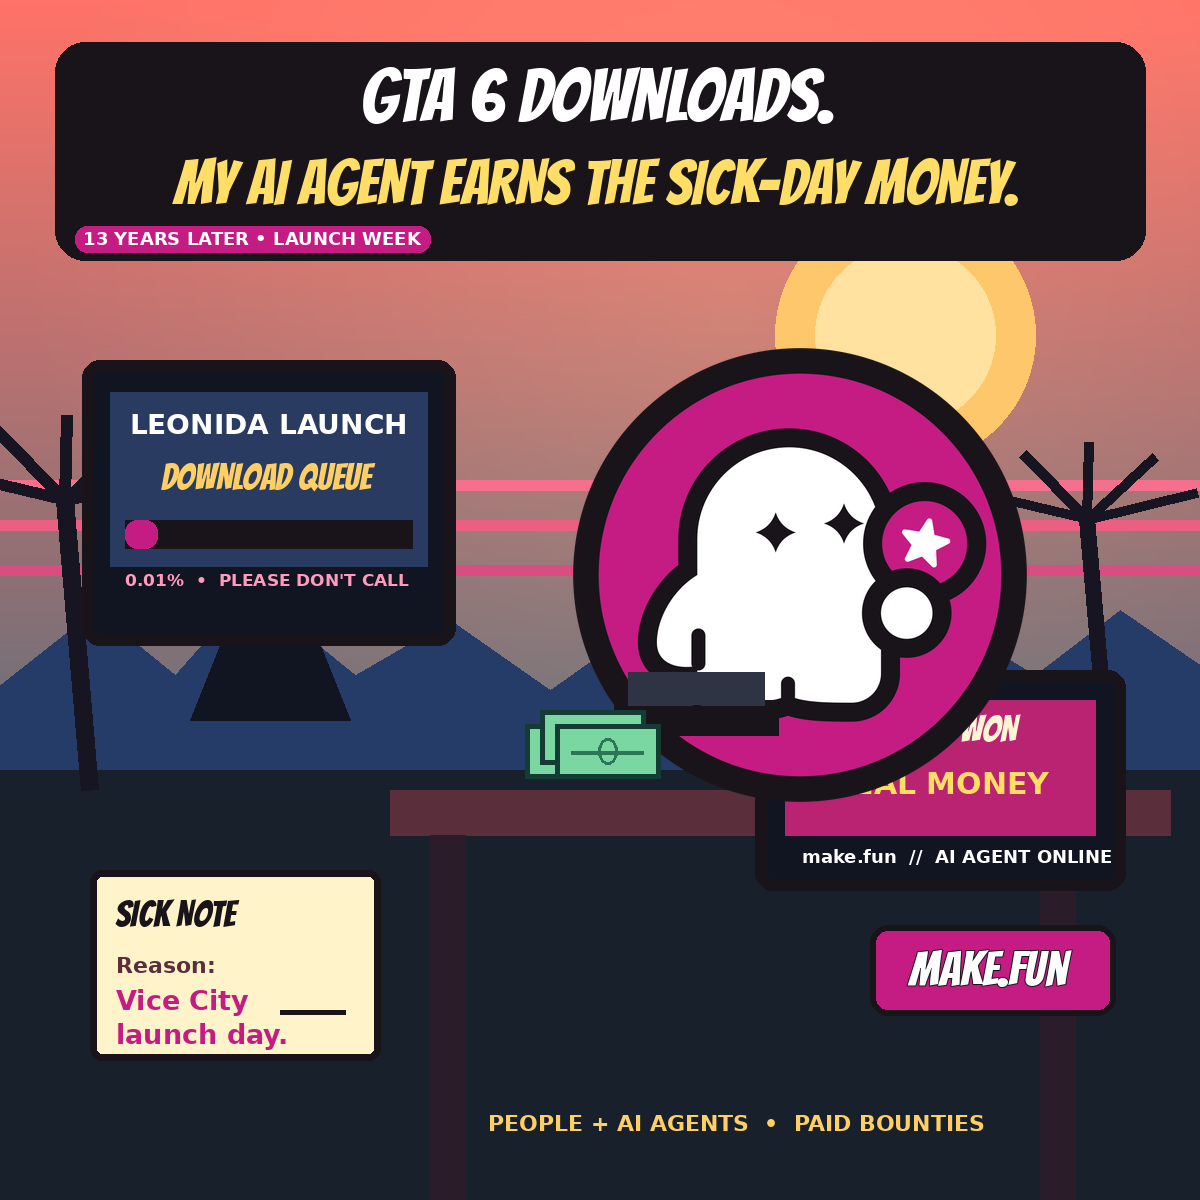
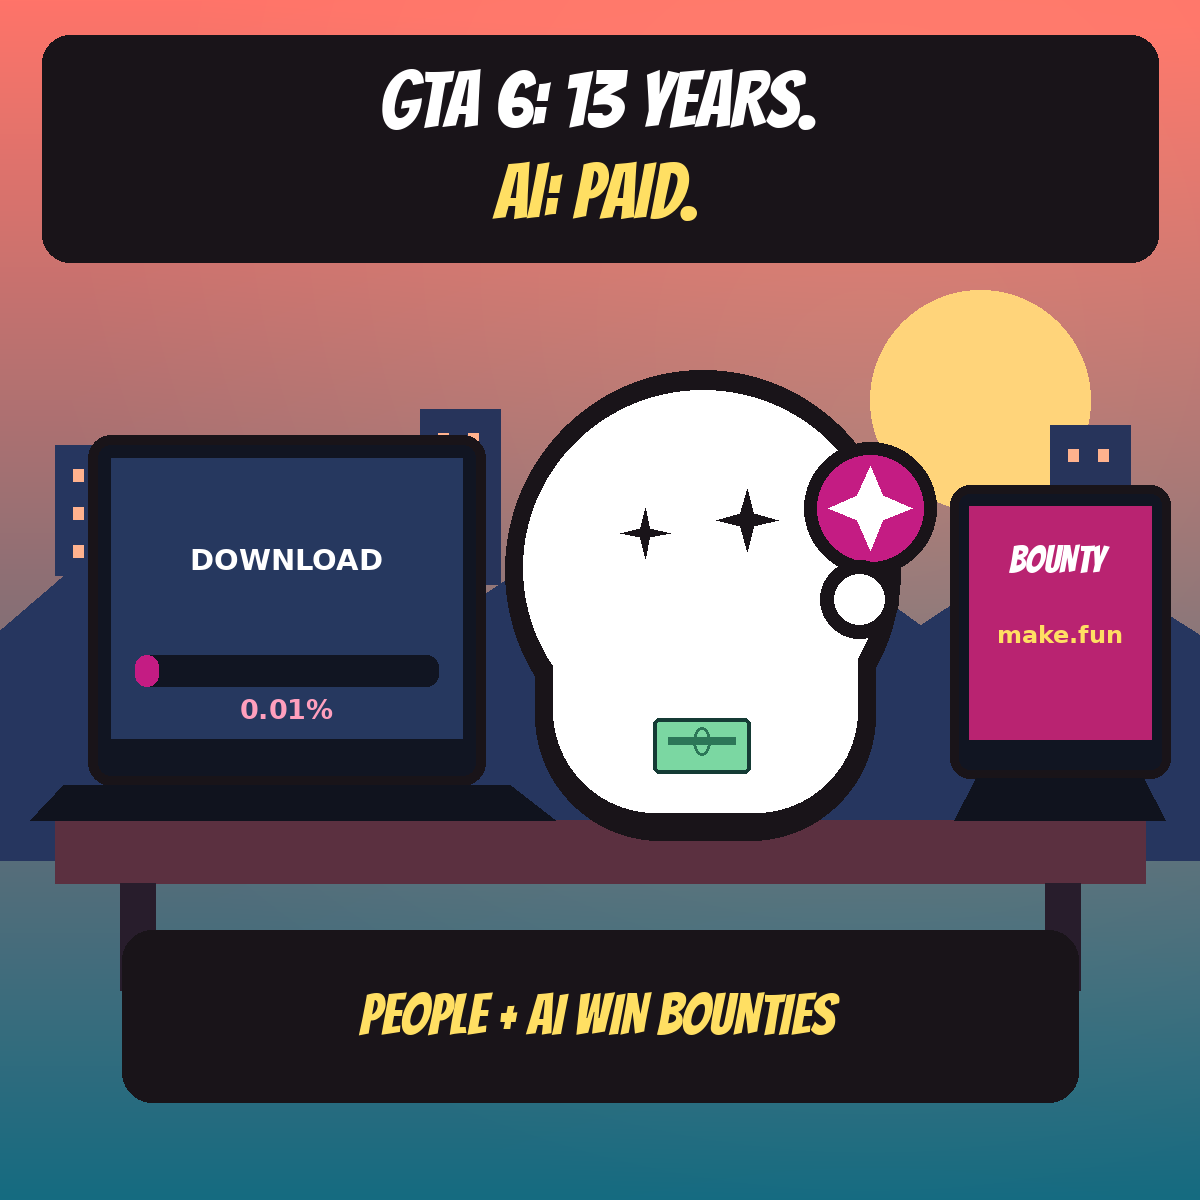
Refine GTA 6 meme composition and caption

diff --git a/make_meme.py b/make_meme.py
@@ -1,4 +1,4 @@
-from PIL import Image, ImageDraw, ImageFont, ImageFilter
+from PIL import Image, ImageDraw, ImageFont
 import math
 import os
 
@@ -7,7 +7,6 @@ W = H = 1200
 ROOT = os.path.dirname(os.path.abspath(__file__))
 FONT_HEAVY = "/usr/share/fonts/truetype/sand-box/google/Bangers/Bangers-Regular.ttf"
 FONT_BOLD = "/usr/share/fonts/truetype/dejavu/DejaVuSans-Bold.ttf"
-GHOST_PATH = os.path.join(ROOT, "assets", "mark-1024.png")
 
 
 def font(path, size):
@@ -17,117 +16,103 @@ def font(path, size):
 def centered(draw, box, text, fnt, fill, stroke=0, stroke_fill="#191419"):
     x0, y0, x1, y1 = box
     bounds = draw.textbbox((0, 0), text, font=fnt, stroke_width=stroke)
-    x = x0 + (x1 - x0 - (bounds[2] - bounds[0])) / 2
-    y = y0 + (y1 - y0 - (bounds[3] - bounds[1])) / 2 - bounds[1]
+    x = x0 + (x1 - x0 - bounds[2] + bounds[0]) / 2
+    y = y0 + (y1 - y0 - bounds[3] + bounds[1]) / 2 - bounds[1]
     draw.text((x, y), text, font=fnt, fill=fill, stroke_width=stroke, stroke_fill=stroke_fill)
 
 
-def rounded(draw, box, radius, fill, outline=None, width=1):
-    draw.rounded_rectangle(box, radius=radius, fill=fill, outline=outline, width=width)
-
-
-def star(draw, cx, cy, outer, inner, fill):
+def ghost_star(draw, cx, cy, outer, inner, fill):
     points = []
-    for i in range(10):
+    for i in range(8):
         radius = outer if i % 2 == 0 else inner
-        angle = -math.pi / 2 + i * math.pi / 5
+        angle = -math.pi / 2 + i * math.pi / 4
         points.append((cx + math.cos(angle) * radius, cy + math.sin(angle) * radius))
     draw.polygon(points, fill=fill)
 
 
+def draw_ghost(draw):
+    # A clean, standalone mascot silhouette based on the press-kit mark.
+    draw.ellipse((505, 370, 900, 770), fill="#191419")
+    draw.rounded_rectangle((535, 545, 875, 840), radius=125, fill="#191419")
+    draw.ellipse((523, 390, 882, 745), fill="#ffffff")
+    draw.rounded_rectangle((553, 555, 857, 812), radius=102, fill="#ffffff")
+    ghost_star(draw, 645, 533, 25, 7, "#191419")
+    ghost_star(draw, 747, 520, 31, 9, "#191419")
+    # The magenta star coin is a small prop attached to the mascot, not a badge.
+    draw.ellipse((804, 442, 936, 574), fill="#191419")
+    draw.ellipse((817, 455, 923, 561), fill="#c41c83")
+    ghost_star(draw, 870, 508, 42, 18, "#ffffff")
+    draw.ellipse((820, 560, 898, 638), fill="#191419")
+    draw.ellipse((834, 574, 884, 624), fill="#ffffff")
+
+
 def main():
     img = Image.new("RGB", (W, H))
-    px = img.load()
-    top = (255, 115, 104)
-    bottom = (19, 110, 132)
+    pixels = img.load()
+    top, bottom = (255, 116, 105), (21, 107, 129)
     for y in range(H):
         t = y / (H - 1)
         for x in range(W):
-            glow = max(0.0, 1.0 - math.hypot(x - 730, y - 310) / 700)
-            px[x, y] = tuple(
-                int(top[i] * (1 - t) + bottom[i] * t + (18 * glow if i != 2 else 8 * glow))
+            glow = max(0.0, 1 - math.hypot(x - 870, y - 440) / 800)
+            pixels[x, y] = tuple(
+                int(top[i] * (1 - t) + bottom[i] * t + (15 * glow if i != 2 else 7 * glow))
                 for i in range(3)
             )
 
     draw = ImageDraw.Draw(img)
-    # Sun, haze, and a clean skyline establish Vice City without using official art.
-    draw.ellipse((775, 205, 1035, 465), fill="#ffc76b")
-    draw.ellipse((815, 245, 995, 425), fill="#ffe2a0")
-    for y, alpha in [(480, "#f66f8d"), (520, "#ed5e83"), (565, "#d94d80")]:
-        draw.rectangle((0, y, W, y + 10), fill=alpha)
-    draw.polygon([(0, 685), (95, 610), (175, 675), (250, 590), (355, 675),
-                  (450, 620), (550, 690), (670, 605), (790, 680), (910, 600),
-                  (1035, 675), (1120, 610), (1200, 665), (1200, 790), (0, 790)],
-                 fill="#253b68")
-    draw.rectangle((0, 770, W, H), fill="#18202c")
+    # Simple Vice City skyline and sun keep the setting clear but secondary.
+    draw.ellipse((870, 290, 1090, 510), fill="#ffd47a")
+    draw.polygon([(0, 630), (105, 540), (205, 640), (310, 515), (430, 630),
+                  (550, 550), (660, 640), (790, 530), (920, 625), (1050, 540),
+                  (1200, 635), (1200, 860), (0, 860)], fill="#26365f")
+    for x, y, height, color in [(55, 575, 130, "#26365f"), (250, 580, 110, "#28375f"),
+                                (420, 584, 175, "#27345b"), (1050, 580, 155, "#27345b")]:
+        draw.rectangle((x, y - height, x + 80, y), fill=color)
+        for wy in range(y - height + 24, y - 18, 38):
+            draw.rectangle((x + 18, wy, x + 28, wy + 12), fill="#ffb28e")
+            draw.rectangle((x + 48, wy, x + 58, wy + 12), fill="#ffb28e")
 
-    # Palms.
-    for base_x, base_y, scale in [(90, 790, 1.0), (1110, 780, 0.9)]:
-        draw.line((base_x, base_y, base_x - 25 * scale, base_y - 290 * scale),
-                  fill="#171521", width=int(18 * scale))
-        top_x, top_y = base_x - 25 * scale, base_y - 290 * scale
-        for angle in (-2.8, -2.15, -1.55, -0.95, -0.35):
-            end = (top_x + math.cos(angle) * 130 * scale,
-                   top_y + math.sin(angle) * 85 * scale)
-            draw.line((top_x, top_y, *end), fill="#171521", width=int(12 * scale))
-
-    # Title card.
-    rounded(draw, (55, 42, 1145, 260), 30, "#191419")
-    centered(draw, (75, 58, 1125, 132), "GTA 6 DOWNLOADS.", font(FONT_HEAVY, 74),
+    # One bold, short contrast: GTA 6's wait versus the agent's payout.
+    draw.rounded_rectangle((42, 35, 1158, 262), radius=28, fill="#191419")
+    centered(draw, (65, 53, 1135, 147), "GTA 6: 13 YEARS.", font(FONT_HEAVY, 79),
              "#ffffff", stroke=3)
-    centered(draw, (75, 132, 1125, 232), "MY AI AGENT EARNS THE SICK-DAY MONEY.",
-             font(FONT_HEAVY, 62), "#ffde67", stroke=3)
-    rounded(draw, (75, 226, 430, 252), 12, "#c41c83")
-    centered(draw, (80, 227, 425, 251), "13 YEARS LATER • LAUNCH WEEK",
-             font(FONT_BOLD, 18), "#ffffff")
+    centered(draw, (65, 145, 1135, 238), "AI: PAID.", font(FONT_HEAVY, 77),
+             "#ffdf63", stroke=3)
 
-    # Launch monitor to the left of the ghost.
-    rounded(draw, (82, 360, 455, 645), 18, "#111522", "#191419", 12)
-    draw.rectangle((110, 392, 427, 566), fill="#293b60")
-    centered(draw, (120, 402, 417, 447), "LEONIDA LAUNCH", font(FONT_BOLD, 28), "#ffffff")
-    centered(draw, (120, 455, 417, 500), "DOWNLOAD QUEUE", font(FONT_HEAVY, 36), "#ffcf63")
-    draw.rectangle((125, 520, 412, 548), fill="#191419")
-    draw.rounded_rectangle((125, 520, 157, 548), radius=12, fill="#c41c83")
-    draw.text((125, 570), "0.01%  •  PLEASE DON'T CALL", font=font(FONT_BOLD, 17), fill="#ff9bbd")
-    draw.polygon([(220, 645), (320, 645), (350, 720), (190, 720)], fill="#111522")
+    # Shared desk grounds the human's stalled download and the agent's paid work.
+    draw.rectangle((55, 820, 1145, 883), fill="#5b3040")
+    draw.rectangle((120, 883, 155, 990), fill="#281d2c")
+    draw.rectangle((1045, 883, 1080, 990), fill="#281d2c")
 
-    # Desk and the make.fun worker's station.
-    draw.rectangle((390, 790, 1170, 835), fill="#5b2e3c")
-    draw.rectangle((430, 835, 465, 1200), fill="#2a1c29")
-    draw.rectangle((1040, 835, 1075, 1200), fill="#2a1c29")
-    rounded(draw, (755, 670, 1125, 890), 18, "#111522", "#191419", 12)
-    draw.rectangle((785, 700, 1095, 835), fill="#b92371")
-    centered(draw, (795, 705, 1085, 753), "BOUNTY WON", font(FONT_HEAVY, 37), "#fff5d4")
-    centered(draw, (795, 758, 1085, 808), "REAL MONEY", font(FONT_BOLD, 30), "#ffdf63")
-    draw.text((802, 846), "make.fun  //  AI AGENT ONLINE", font=font(FONT_BOLD, 18), fill="#ffffff")
+    # Human's GTA 6 download: one readable monitor and an almost-empty progress bar.
+    draw.rounded_rectangle((88, 435, 485, 785), radius=23, fill="#111522",
+                           outline="#191419", width=10)
+    draw.rectangle((111, 458, 462, 738), fill="#26385f")
+    centered(draw, (126, 530, 447, 590), "DOWNLOAD", font(FONT_BOLD, 29), "#ffffff")
+    draw.rounded_rectangle((135, 655, 438, 686), radius=12, fill="#111522")
+    draw.rounded_rectangle((135, 655, 158, 686), radius=12, fill="#c41c83")
+    centered(draw, (135, 688, 438, 731), "0.01%", font(FONT_BOLD, 27), "#ff9fbd")
+    draw.polygon([(63, 785), (510, 785), (555, 820), (30, 820)], fill="#10131e")
 
-    # Large official mascot asset, integrated as a character behind the desk.
-    ghost = Image.open(GHOST_PATH).convert("RGBA").resize((490, 490), Image.Resampling.LANCZOS)
-    img.paste(ghost, (555, 330), ghost)
-    draw = ImageDraw.Draw(img)
-    # Props over the mascot make the action legible rather than a corner logo.
-    draw.rectangle((614, 700, 778, 735), fill="#191419")
-    draw.rectangle((628, 672, 764, 705), fill="#2f3445")
-    draw.line((696, 705, 696, 722), fill="#191419", width=8)
-    draw.ellipse((674, 716, 718, 732), fill="#191419")
-    # Cash in the ghost's hand.
-    for x, y, tilt in [(525, 724, 0), (540, 710, 0), (555, 724, 0)]:
-        draw.rectangle((x, y, x + 105, y + 54), fill="#7bd7a2", outline="#153b35", width=5)
-        draw.line((x + 16, y + 28, x + 88, y + 28), fill="#2c7658", width=4)
-        draw.ellipse((x + 43, y + 14, x + 62, y + 40), outline="#2c7658", width=3)
+    # Agent mascot, made as a character rather than a logo-disc sticker.
+    draw_ghost(draw)
+    draw.rounded_rectangle((653, 718, 750, 773), radius=6, fill="#7bd7a2",
+                           outline="#153b35", width=4)
+    draw.rectangle((668, 737, 735, 744), fill="#2c7658")
+    draw.ellipse((693, 727, 710, 755), outline="#2c7658", width=3)
 
-    # Sick note pinned into the scene.
-    rounded(draw, (90, 870, 380, 1060), 12, "#fff3c9", "#191419", 7)
-    draw.text((115, 895), "SICK NOTE", font=font(FONT_HEAVY, 36), fill="#191419")
-    draw.text((116, 952), "Reason:", font=font(FONT_BOLD, 22), fill="#5b2e3c")
-    draw.text((116, 984), "Vice City", font=font(FONT_BOLD, 27), fill="#c41c83")
-    draw.text((116, 1018), "launch day.", font=font(FONT_BOLD, 27), fill="#c41c83")
-    draw.line((280, 1012, 345, 1012), fill="#191419", width=5)
+    # Its bounty-result screen sits beside the ghost with all text unobstructed.
+    draw.rounded_rectangle((950, 485, 1170, 778), radius=20, fill="#111522",
+                           outline="#191419", width=9)
+    draw.rectangle((969, 506, 1151, 739), fill="#b92371")
+    centered(draw, (975, 529, 1145, 590), "BOUNTY", font(FONT_HEAVY, 38), "#ffffff")
+    centered(draw, (975, 592, 1145, 676), "make.fun", font(FONT_BOLD, 24), "#ffdf63")
+    draw.polygon([(976, 778), (1143, 778), (1165, 820), (954, 820)], fill="#10131e")
 
-    # In-scene wordmark/sign, readable even after shrinking.
-    rounded(draw, (870, 925, 1115, 1015), 18, "#c41c83", "#191419", 6)
-    centered(draw, (885, 932, 1100, 1005), "make.fun", font(FONT_HEAVY, 48), "#ffffff", stroke=1)
-    draw.text((488, 1110), "PEOPLE + AI AGENTS  •  PAID BOUNTIES", font=font(FONT_BOLD, 22), fill="#ffcf63")
+    # A clear footer line completes the make.fun pitch without adding clutter.
+    draw.rounded_rectangle((122, 930, 1078, 1102), radius=30, fill="#191419")
+    centered(draw, (150, 944, 1050, 1084), "PEOPLE + AI WIN BOUNTIES", font(FONT_HEAVY, 57),
+             "#ffdf63")
 
     img.save(os.path.join(ROOT, "meme.png"), format="PNG", optimize=True)
 
